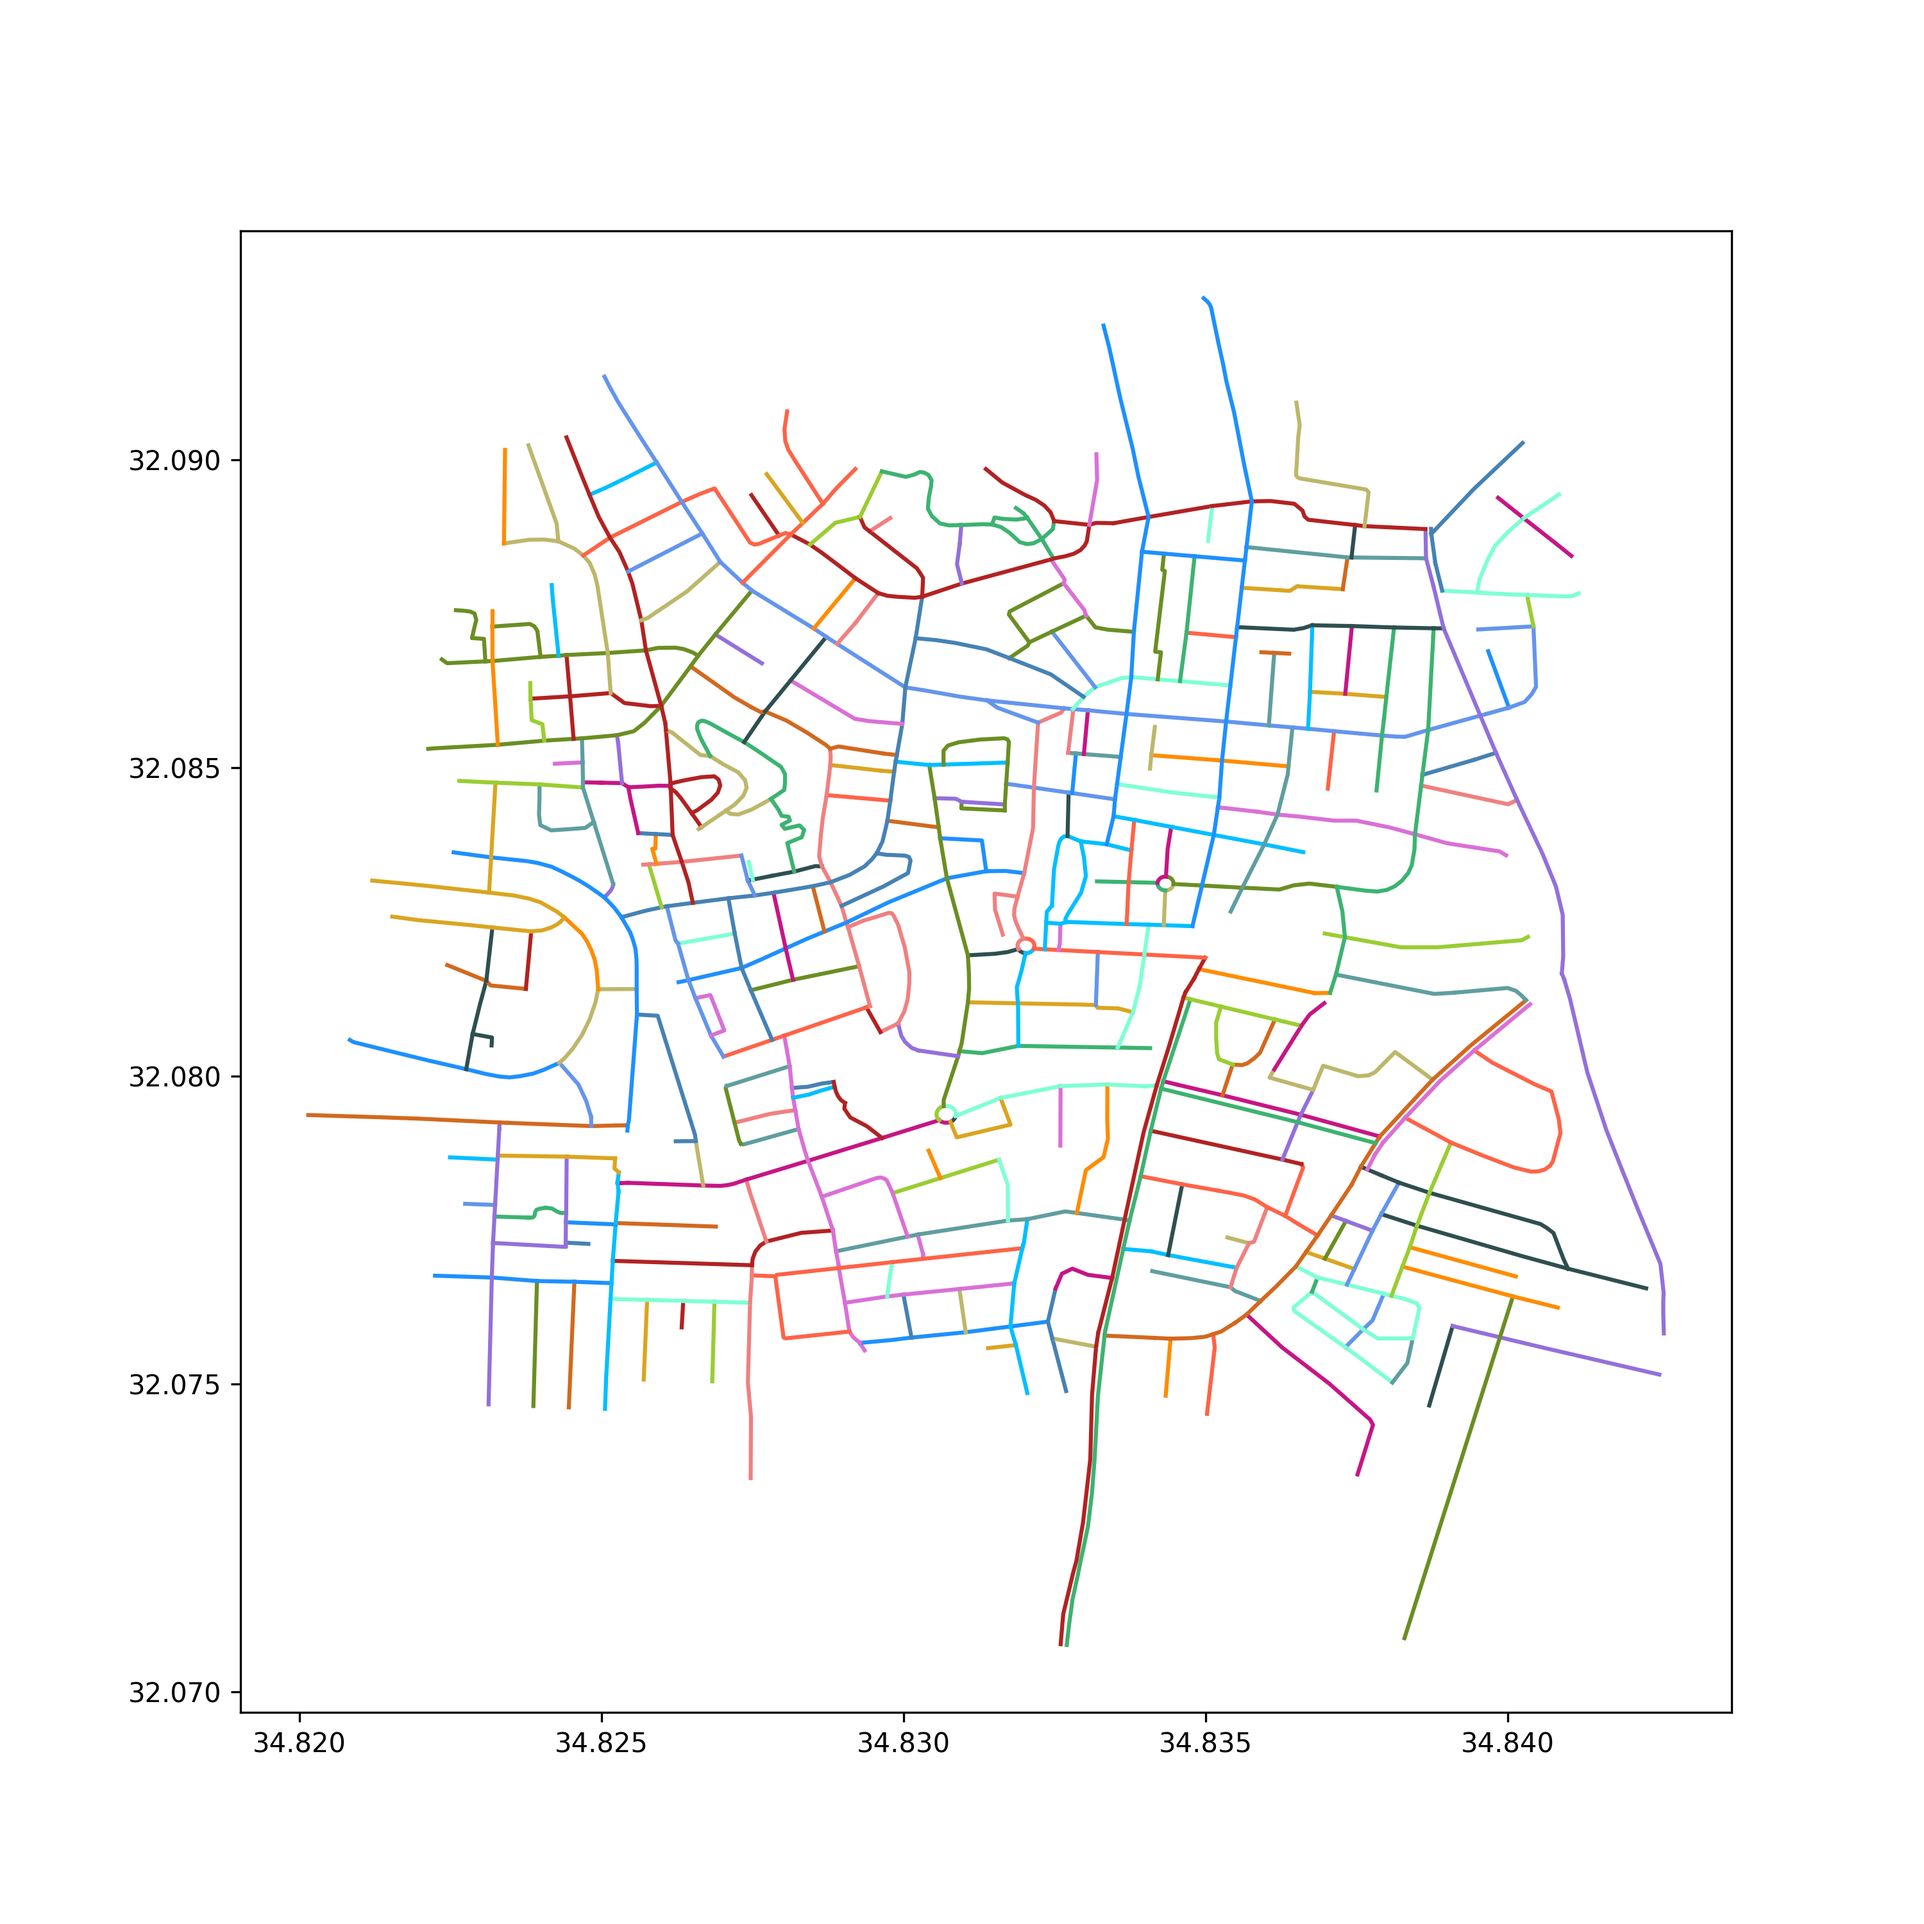
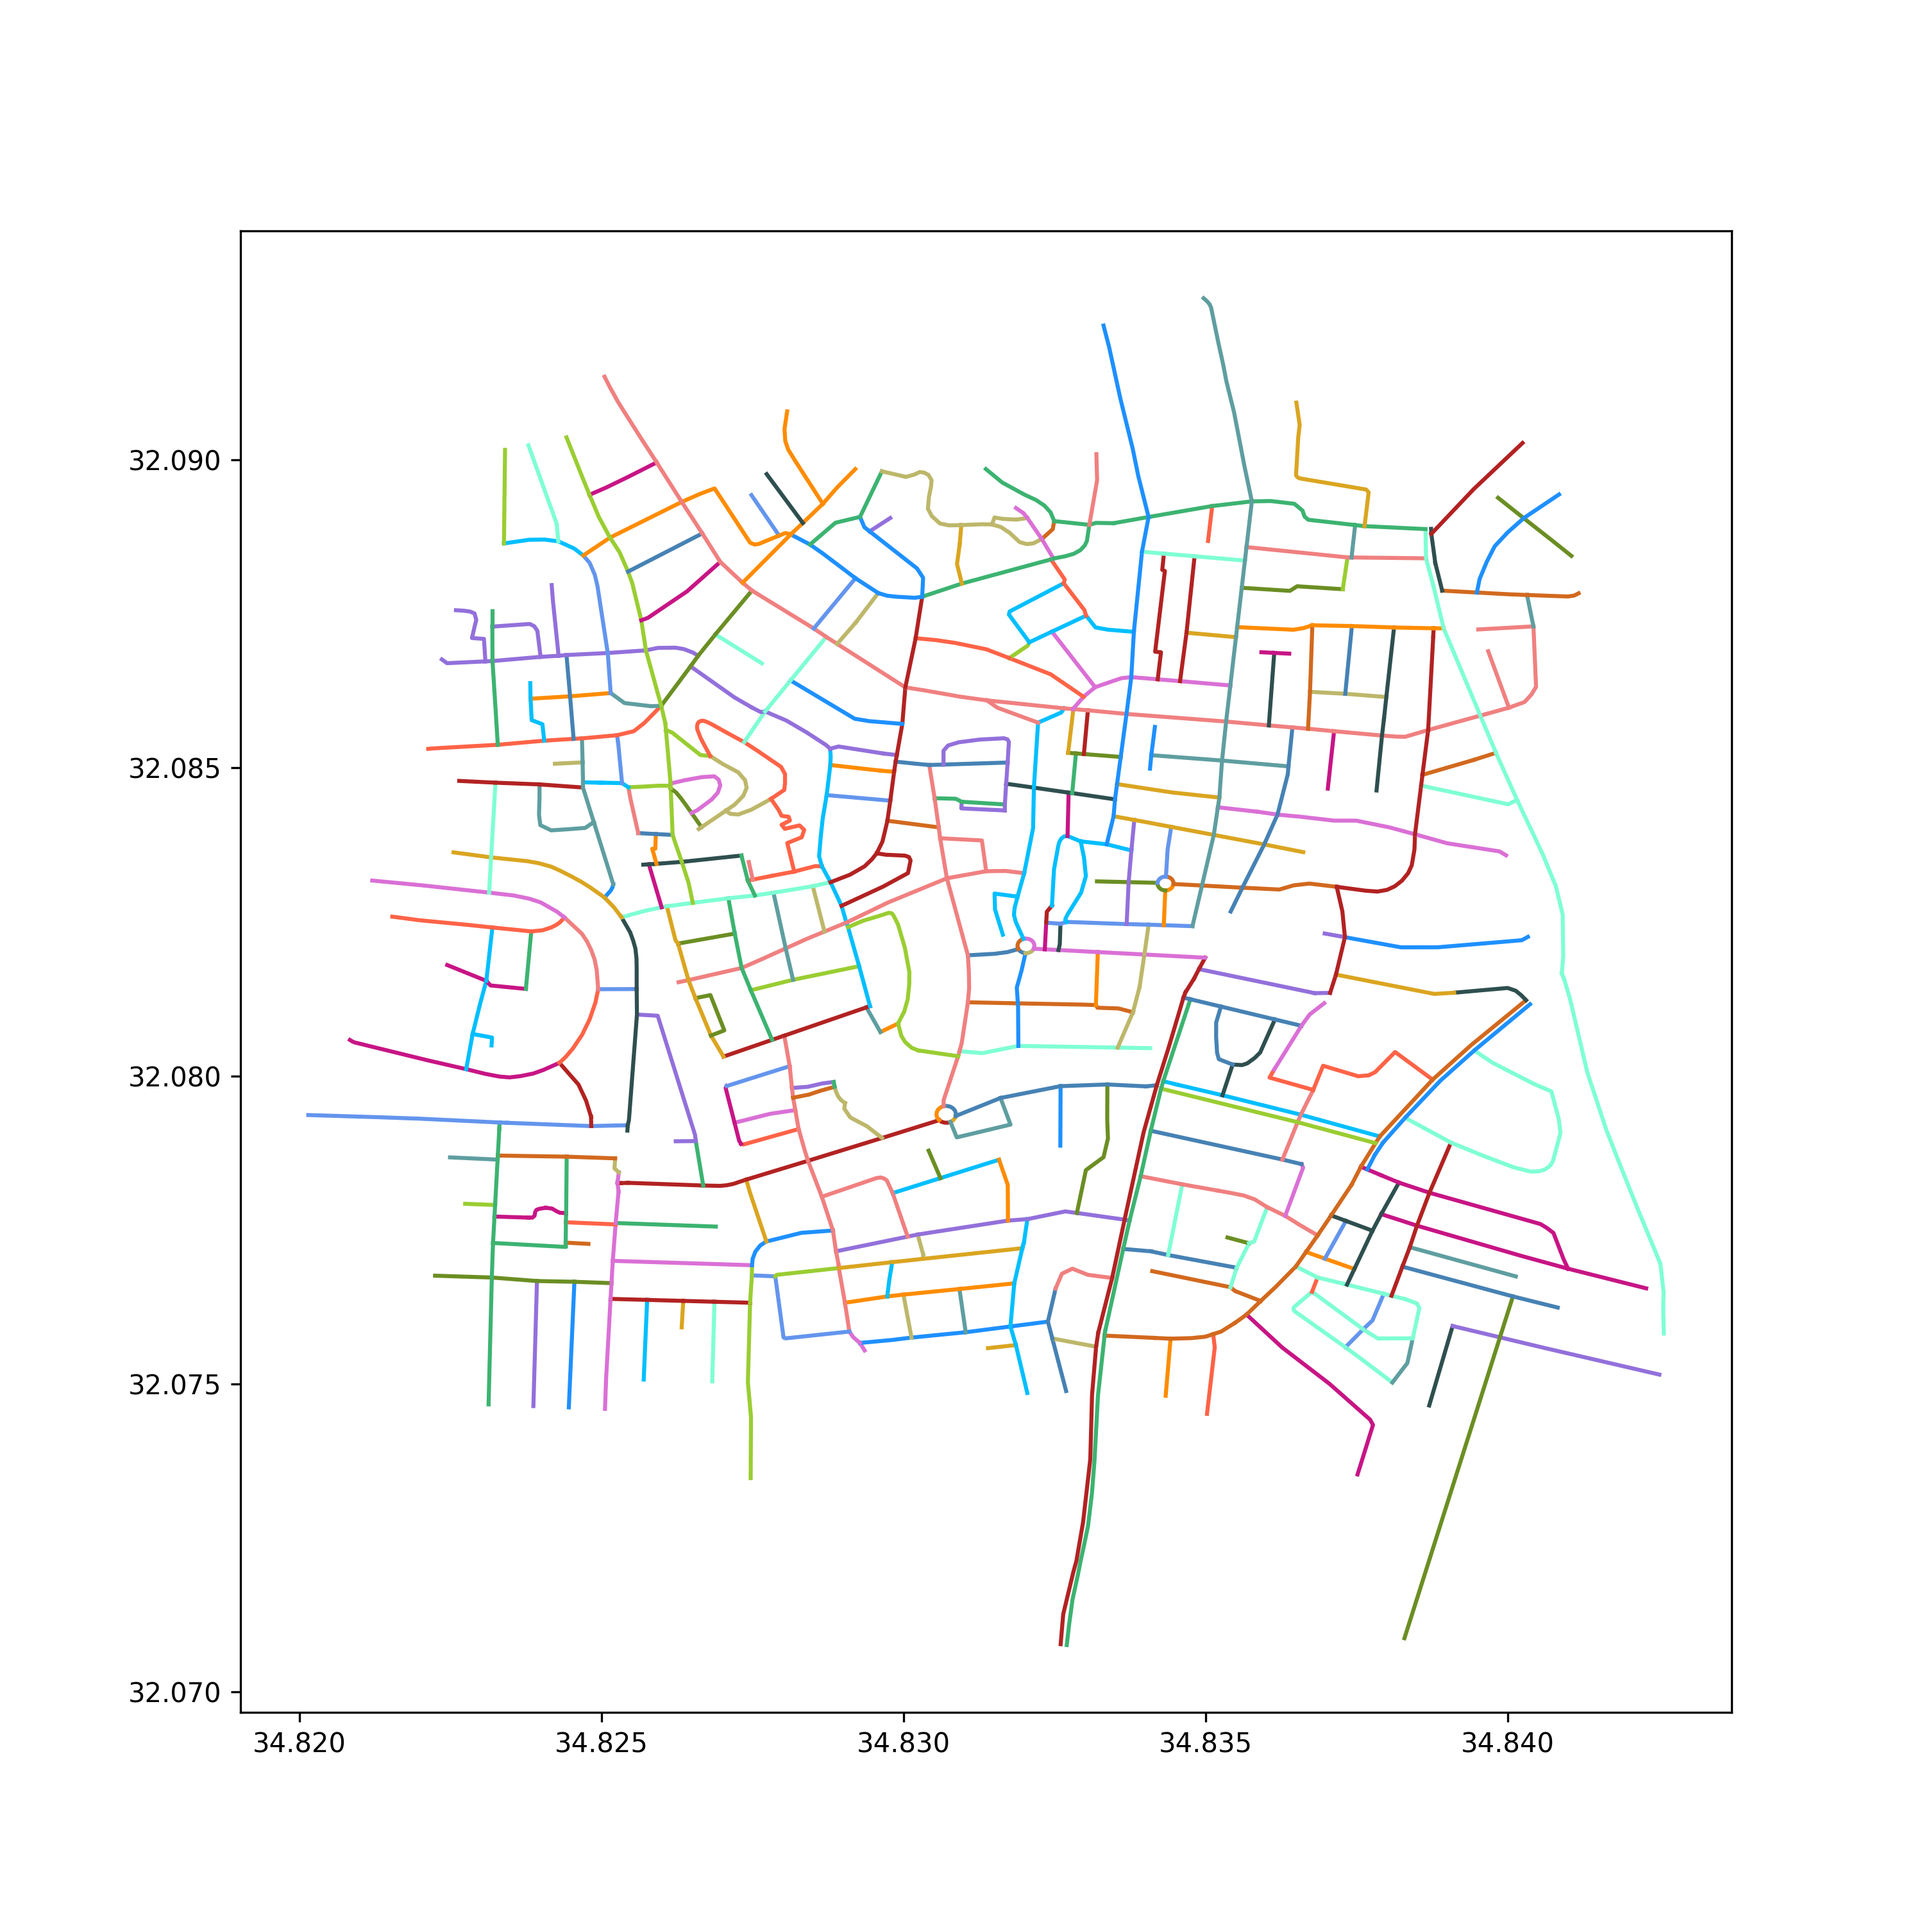
Angle adjusted

diff --git a/main.py b/main.py
@@ -6,7 +6,7 @@ from itertools import cycle
 
 OUTPUT_SIZE = 3000
 OUTPUT_RES = 300
-MAX_ANGLE = 45
+MAX_ANGLE = 33
 
 INPUT_PATH = 'sample/roads.shp'
 OUTPUT_PATH = 'output/solution.png'
